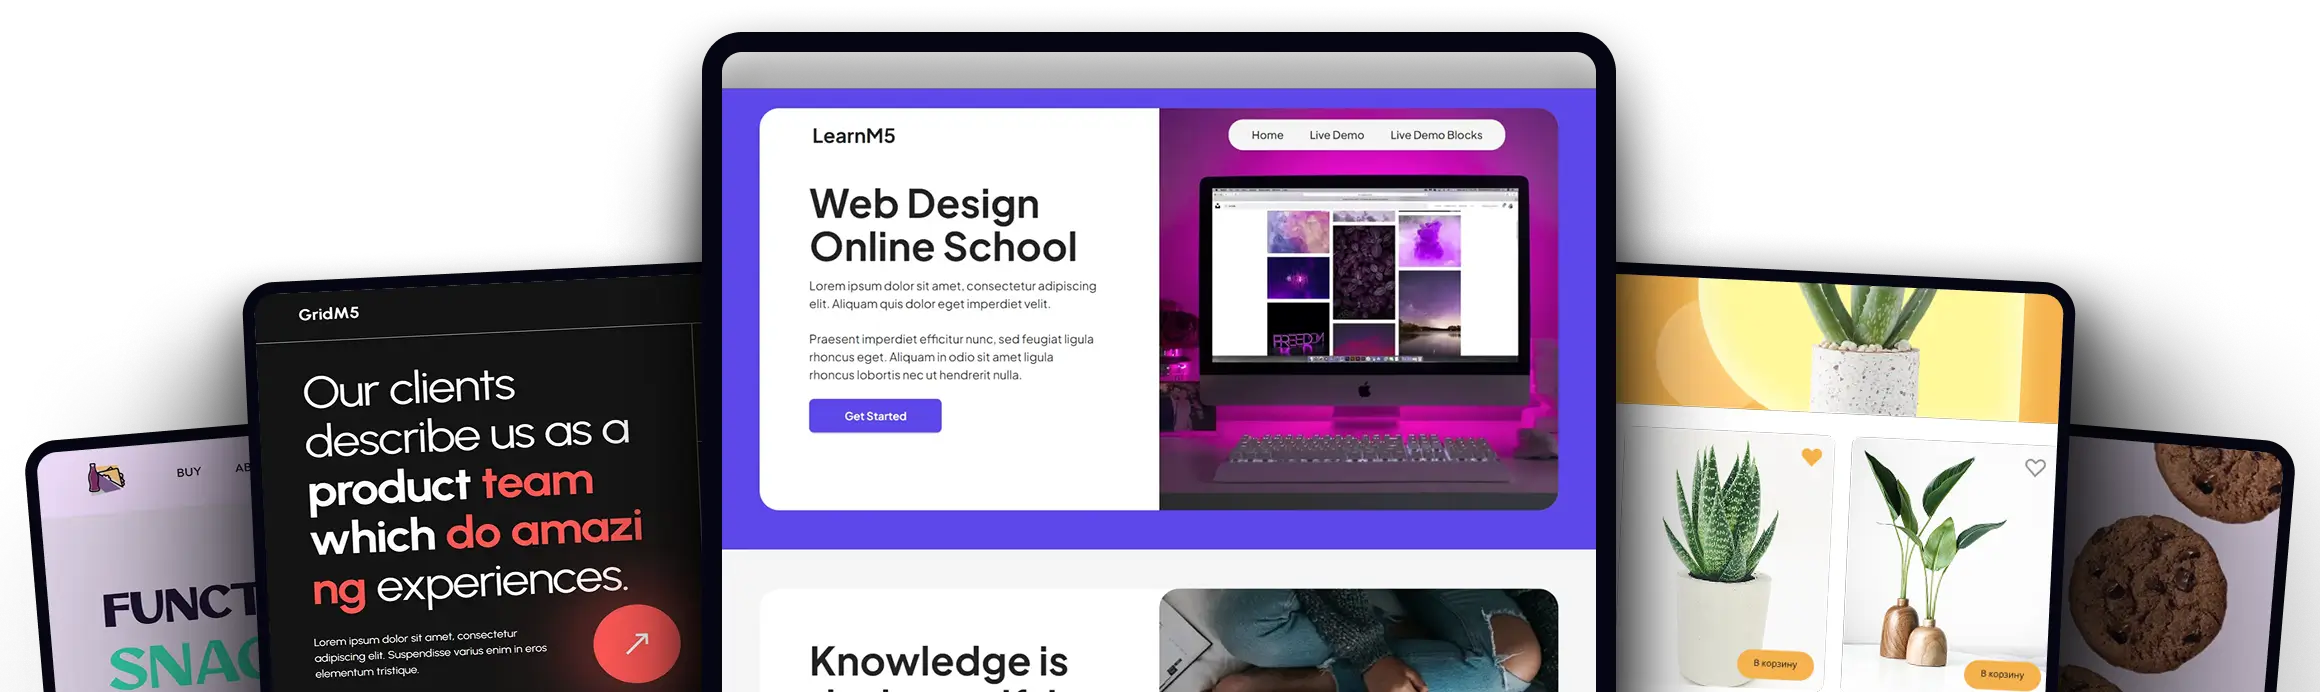
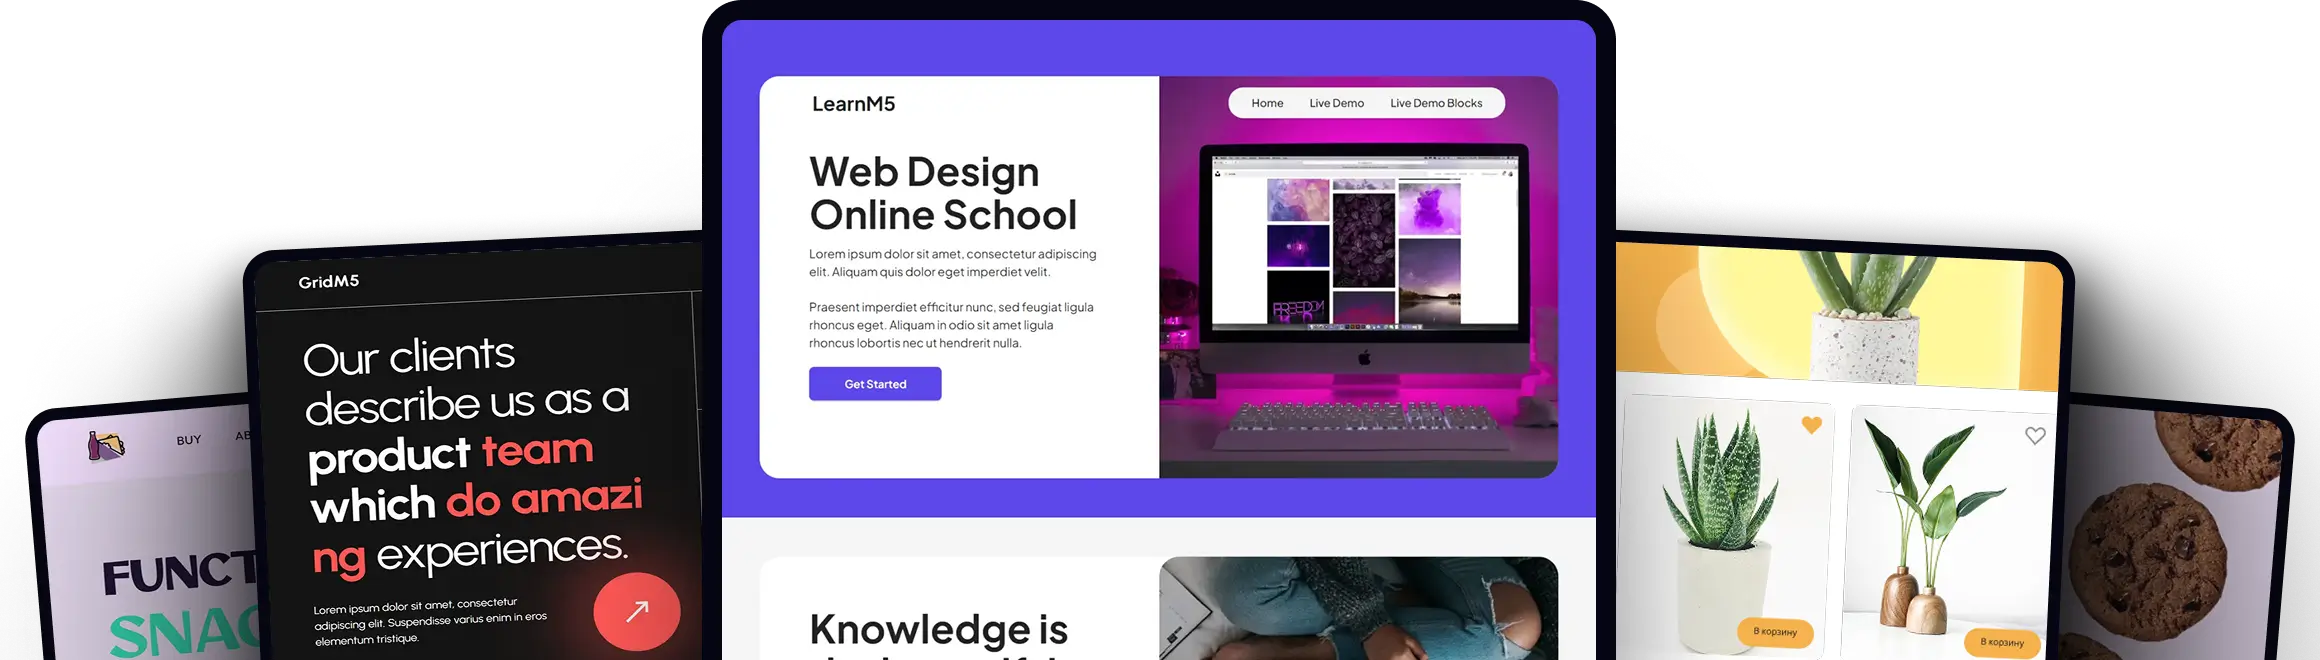
Serzh Commit

diff --git a/style.css b/style.css
@@ -801,7 +801,7 @@ header {
   text-align: start;
 }
 .k-advnatages-section {
-  padding: 70px 0 20px 0;
+  padding: 70px 0 30px 0;
   overflow: hidden;
 }
 
@@ -920,7 +920,7 @@ header {
 .k-advnatages-small-icon {
   position: absolute;
   max-width: 80px;
-  left: 95px;
+  left: 75px;
   top: -40px;
 }
 
@@ -983,8 +983,11 @@ header {
   padding: 52px 52px 0 52px;
   overflow: hidden;
 }
+.process-mobile-media {
+  display: none;
+}
 .process-section {
-  margin-top: 120px;
+  margin-top: 110px;
 }
 .process-cnt .section-clue {
   white-space: nowrap;
@@ -1042,6 +1045,9 @@ header {
 
 .process-btn {
   max-width: max-content;
+}
+.process-btn-mobile {
+  display: none;
 }
 .k-possibilities-body {
   position: relative;
@@ -1305,8 +1311,7 @@ header {
   opacity: 0.2 !important;
   margin: 0 !important;
   transition: 0.3s;
-    border-radius: 8px !important;
-
+  border-radius: 8px !important;
 }
 .swiper-pagination-bullet-active {
   width: 8px !important;
@@ -1752,6 +1757,11 @@ header {
   .process-btn {
     margin: 0 auto;
   }
+  .process-btn-mobile {
+    margin: 32px auto 0;
+    display: flex;
+    max-width: max-content;
+  }
   .hero-section {
     min-height: 750px;
   }
@@ -2105,9 +2115,7 @@ header {
   .k-advnatages-small-item-mobile picture {
     width: 100%;
   }
-  .k-advnatages-bg img {
-    object-position: top;
-  }
+
   .k-advnatages-section {
     padding: 60px 0 0;
   }
@@ -2151,6 +2159,9 @@ header {
   .process-mobile-media {
     margin-top: 10px;
   }
+  .process-mobile-media {
+    display: flex;
+  }
   .k-possibilities-items {
     display: none;
   }
@@ -2190,10 +2201,23 @@ header {
     margin-top: 80px;
     padding: 20px 0 0;
   }
+  .k-advnatages-small-item-mobile .k-advnatages-bg img {
+    object-position: 0 -2px;
+  }
+
+  .k-trust-body {
+    min-height: 434px;
+    padding: 50px 0 0;
+  }
+  .k-trust-body .section-titles{
+    padding: 0 0 32px 0 ;
+  }
 }
 
 @media (max-width: 500px) {
+
 }
 
 @media (max-width: 400px) {
+ 
 }

diff --git a/index.html b/index.html
@@ -591,7 +591,7 @@
                 </div>
               </div>
 
-              <div class="process-mobile-media mobile-block">
+              <div class="process-mobile-media ">
                 <img
                   src="assets/images/processMediaMobile.webp"
                   alt="photo"
@@ -600,6 +600,13 @@
                   height=""
                 />
               </div>
+
+              <a class="black-btn process-btn-mobile ">
+                <span class="black-btn-bg G-center">
+                  <i class="icon icon-stars"></i>
+                </span>
+                <span class="black-btn-text">Начать бесплатно</span>
+              </a>
             </div>
           </div>
         </section>
